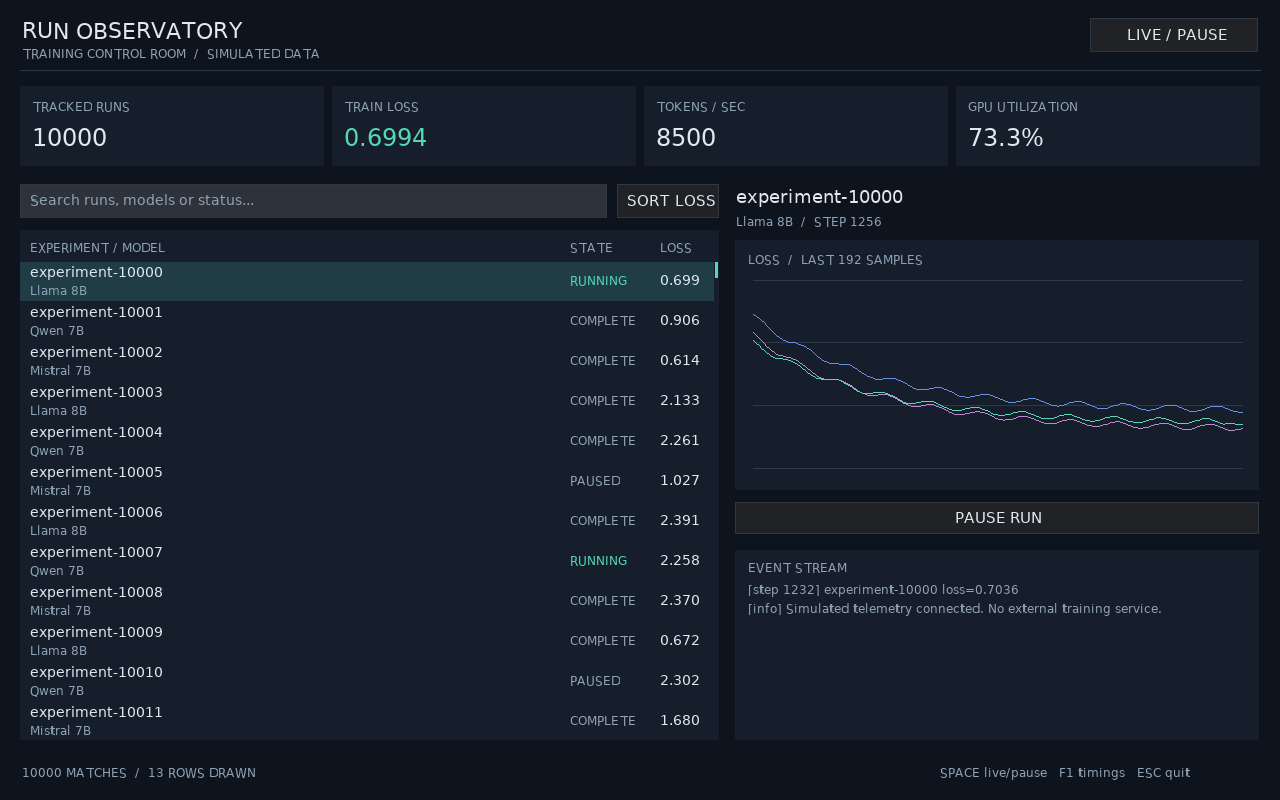
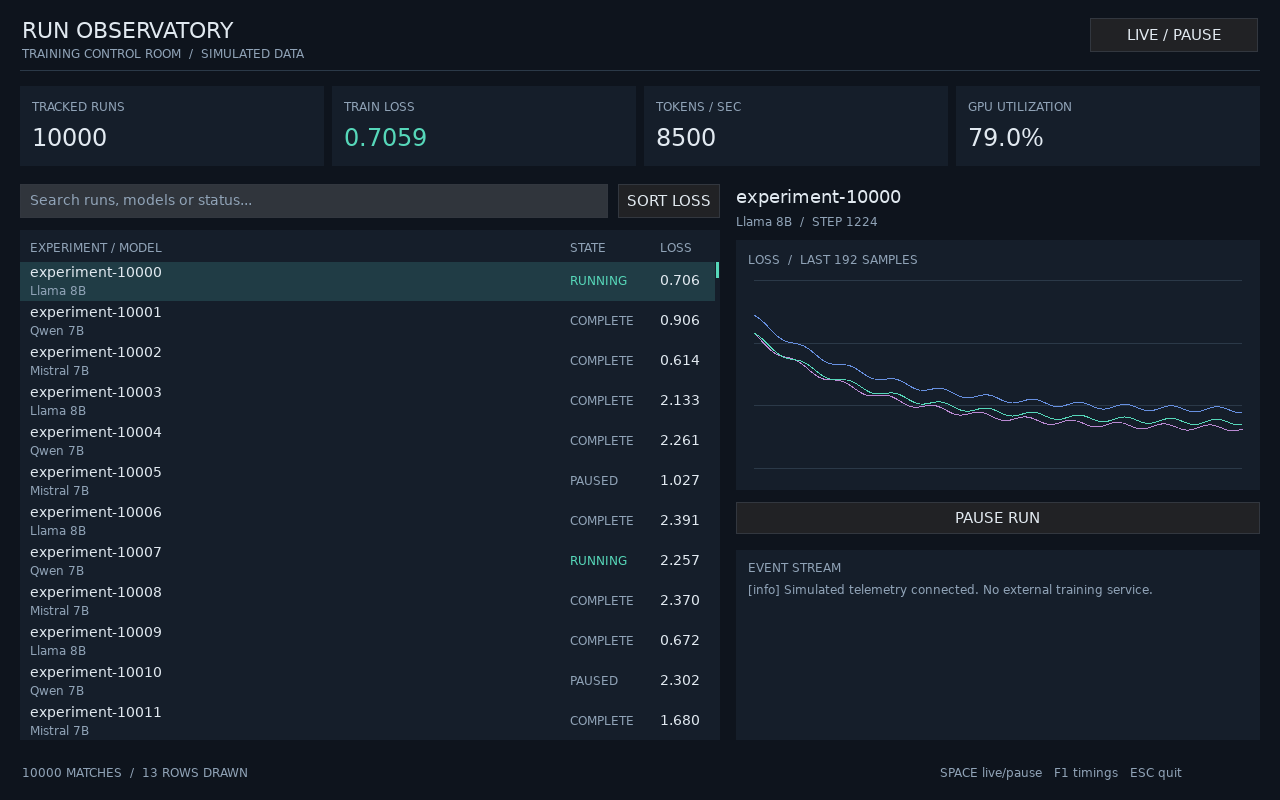
README: fresh screenshots and a gallery of the newer features (#61)
Signal Siege and Run Observatory recaptured from current main (the arena
art, atlas and HUD changed since 0.2.1; ui2 text is now kerned). Signal
Siege is captured at --ui-scale 1, so a high-DPI desktop doesn't enlarge
its HUD. A row under Features shows vector shapes, linear HDR lighting
and Signal Siege in Japanese.

diff --git a/README.md b/README.md
@@ -28,8 +28,8 @@ small, stays honest about its scope, and grows alongside the games built with it
 ![Signal Siege: the cyan player ship, marked by a ground ring, fires at red star, orange plate and purple ring enemies while pink enemy bullets stream across a dark steel deck](docs/images/signal_siege.png)
 
 <sub>Signal Siege, an arena survival example: a 1280x800 frame from kin's GPU backend, captured through the scene server
-while its autoplay benchmark runs: <code>KIN_RENDER_BACKEND=gpu signal_siege --server --benchmark --seed=7 --mute</code>,
-then <code>sim.tick</code> and <code>view.screenshot</code> requests.</sub>
+while its autoplay benchmark runs: <code>KIN_RENDER_BACKEND=gpu signal_siege --server --benchmark --seed=7 --mute --ui-scale 1</code>,
+then <code>sim.tick</code> (4,800 frames) and <code>view.screenshot</code> requests.</sub>
 
 ## Features
 
@@ -46,6 +46,10 @@ then <code>sim.tick</code> and <code>view.screenshot</code> requests.</sub>
 - **Agent interface** — every game gets deterministic headless runs with a JSON
   report, a line-JSON/HTTP control server, screenshots, and profiling from the
   same command-line flags ([docs/agent_interface.md](docs/agent_interface.md)).
+
+| ![The shapes demo: an orrery of planets with night sides, moons and an SVG rocket around a star](docs/images/shapes_demo.png) | ![The lighting demo at night: lamps, a campfire, a cyan crystal and a flashlight beam, in linear HDR](docs/images/lighting_demo.png) | ![Signal Siege in Japanese: the HUD, the wave banner and the controls line translated](docs/images/signal_siege_japanese.png) |
+|:-:|:-:|:-:|
+| <sub>Vector shapes and SVG under a camera that zooms and turns ([rendering](docs/rendering.md#shapes))</sub> | <sub>2D lights in linear HDR, tonemapped and graded ([rendering](docs/rendering.md))</sub> | <sub>Signal Siege in Japanese: text by key, in any script, switched while it runs ([localization](docs/localization.md))</sub> |
 
 ## Platforms
 
